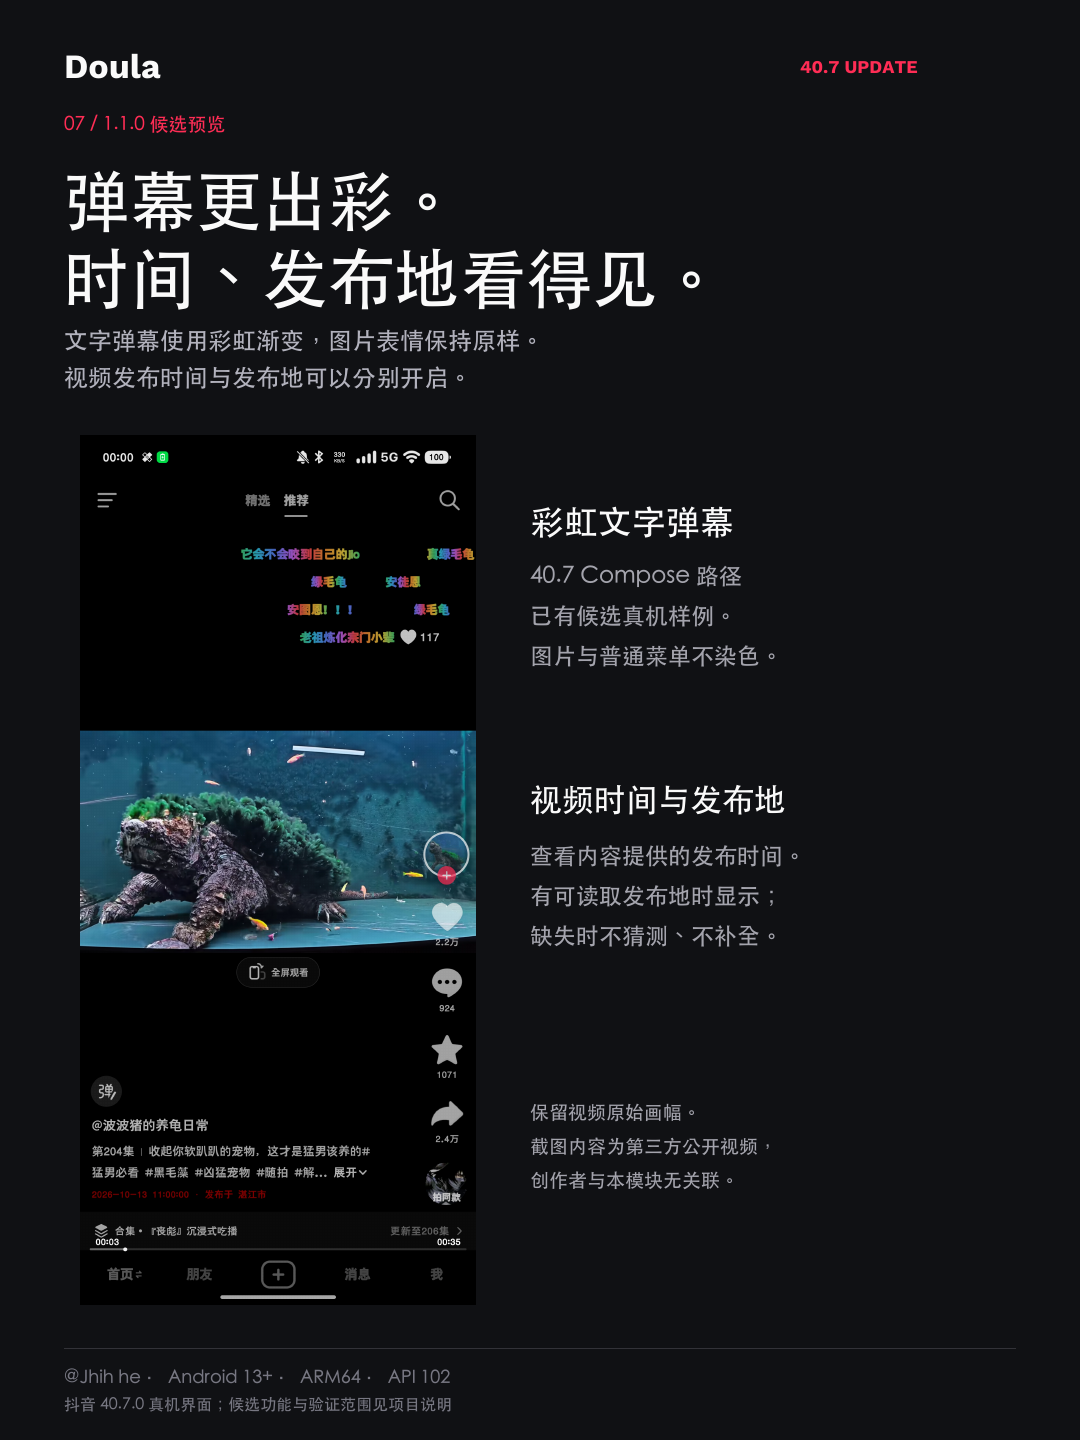
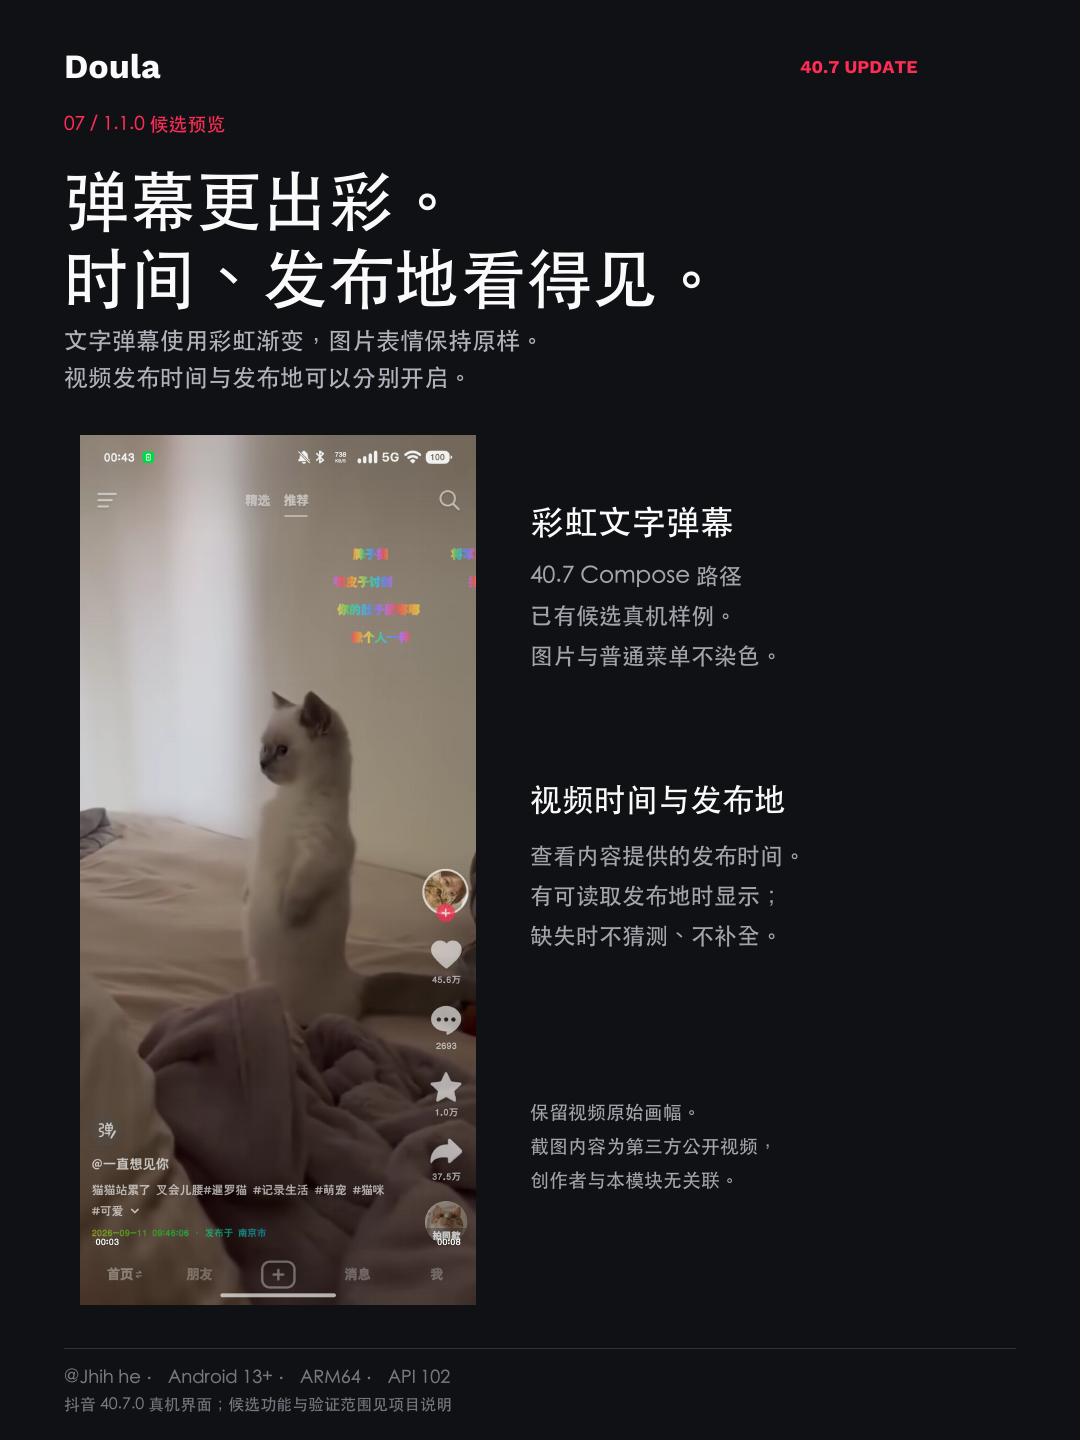
Use selected full-screen cat video for publicity

Changed region(s): [[0.0611, 0.2812, 0.4583, 0.9062]]

diff --git a/README.md b/README.md
@@ -44,7 +44,7 @@
 
 ![彩虹弹幕、发布时间与发布地实景](posters/update-40.7/07-rainbow-information.png)
 
-真机截图同时展示半透明控件、彩虹弹幕与视频时间/发布地，来自40.7 / rainbow-test.20候选。视频与弹幕为第三方公开内容，创作者与本模块无关联。
+真机截图同时展示半透明控件、彩虹弹幕与视频时间/发布地，来自40.7 / 1.1.0-dy40.6-40.7-api102-rc.3候选。视频与弹幕为第三方公开内容，创作者与本模块无关联。
 
 ## 设置更多，查找更直接
 
@@ -90,7 +90,7 @@
 
 [新 UI 完整截图集](GALLERY.md) · [新增与原有功能清单](FEATURES.md) · [验证范围](VALIDATION.md) · [宣传文案](MARKETING.md)
 
-本轮 11 张截图均为真机原图，来自 rainbow-test.20 与 test.21 / .23 / .24 / .26 候选，确切版本见截图集。截图里的选项值不代表默认值；海报只排版文字和原图，不表示最终包全部验收。旧图和历史说明保留在 [1.0.x 记录](README-1.0.x.md)。
+本轮 11 张截图均为真机原图，来自 rc.3 与 test.21 / .23 / .24 / .26 候选，确切版本见截图集。截图里的选项值不代表默认值；海报只排版文字和原图，不表示最终包全部验收。旧图和历史说明保留在 [1.0.x 记录](README-1.0.x.md)。
 
 [提交问题](https://github.com/jhihhe/Doula-Douyin-LSPosed/issues)。体验有帮助，欢迎收藏、留言并自愿支持维护；反馈请附具体版本和复现步骤。
 

diff --git a/GALLERY.md b/GALLERY.md
@@ -6,7 +6,7 @@
 
 ## 半透明控件、彩虹弹幕与发布时间/发布地实景
 
-Doula `1.1.0-rainbow-test.20` · 抖音 `40.7.0 / 400701`
+Doula `1.1.0-dy40.6-40.7-api102-rc.3` · 抖音 `40.7.0 / 400701`
 
 ![半透明控件、彩虹弹幕与发布时间/发布地实景](screenshots/update-40.7/11-rainbow-time-place.png)
 
